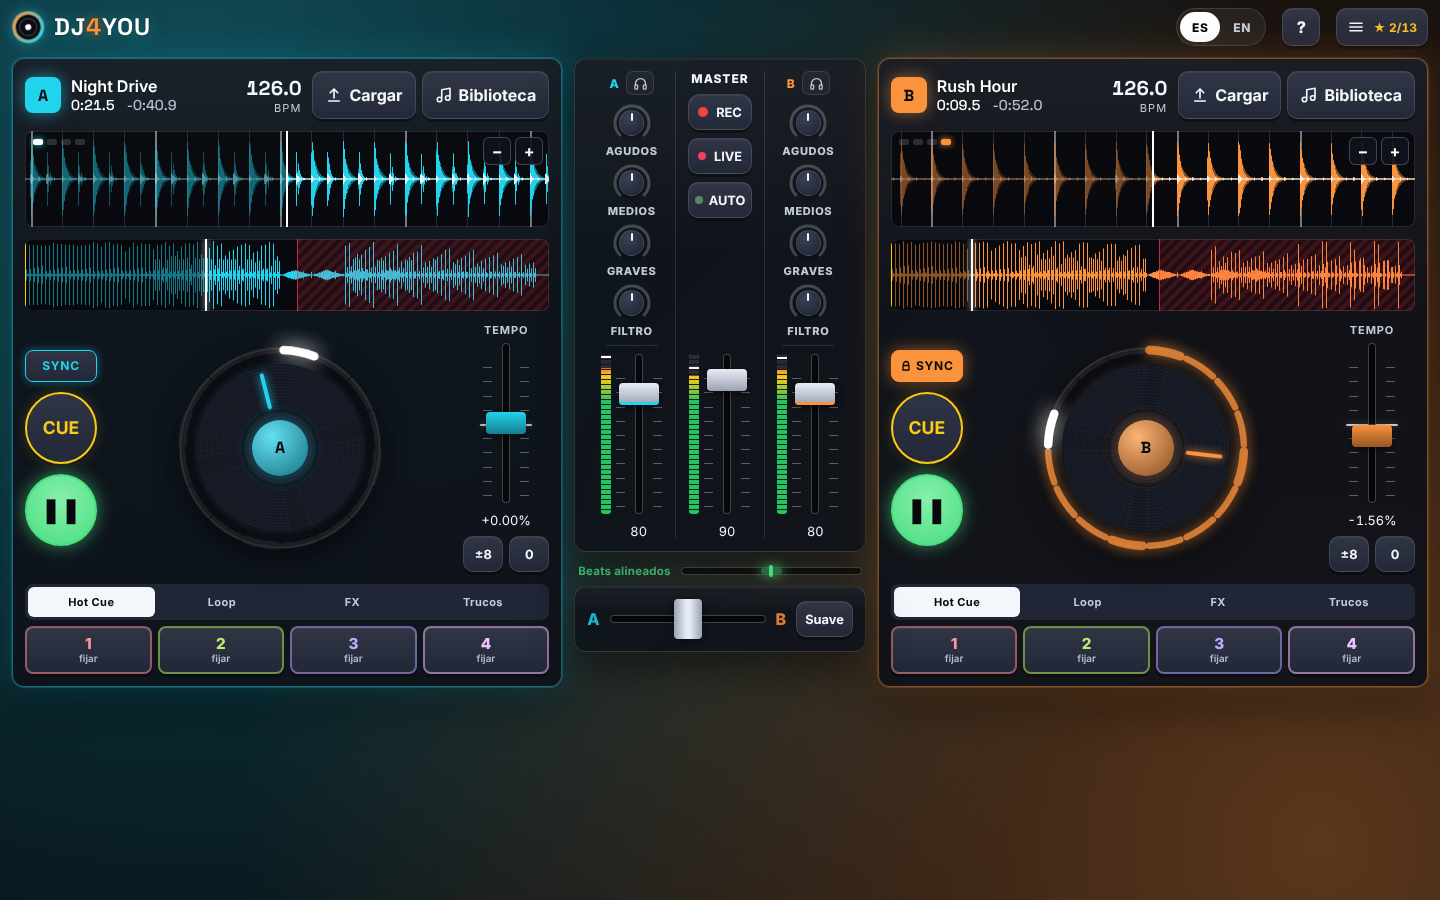
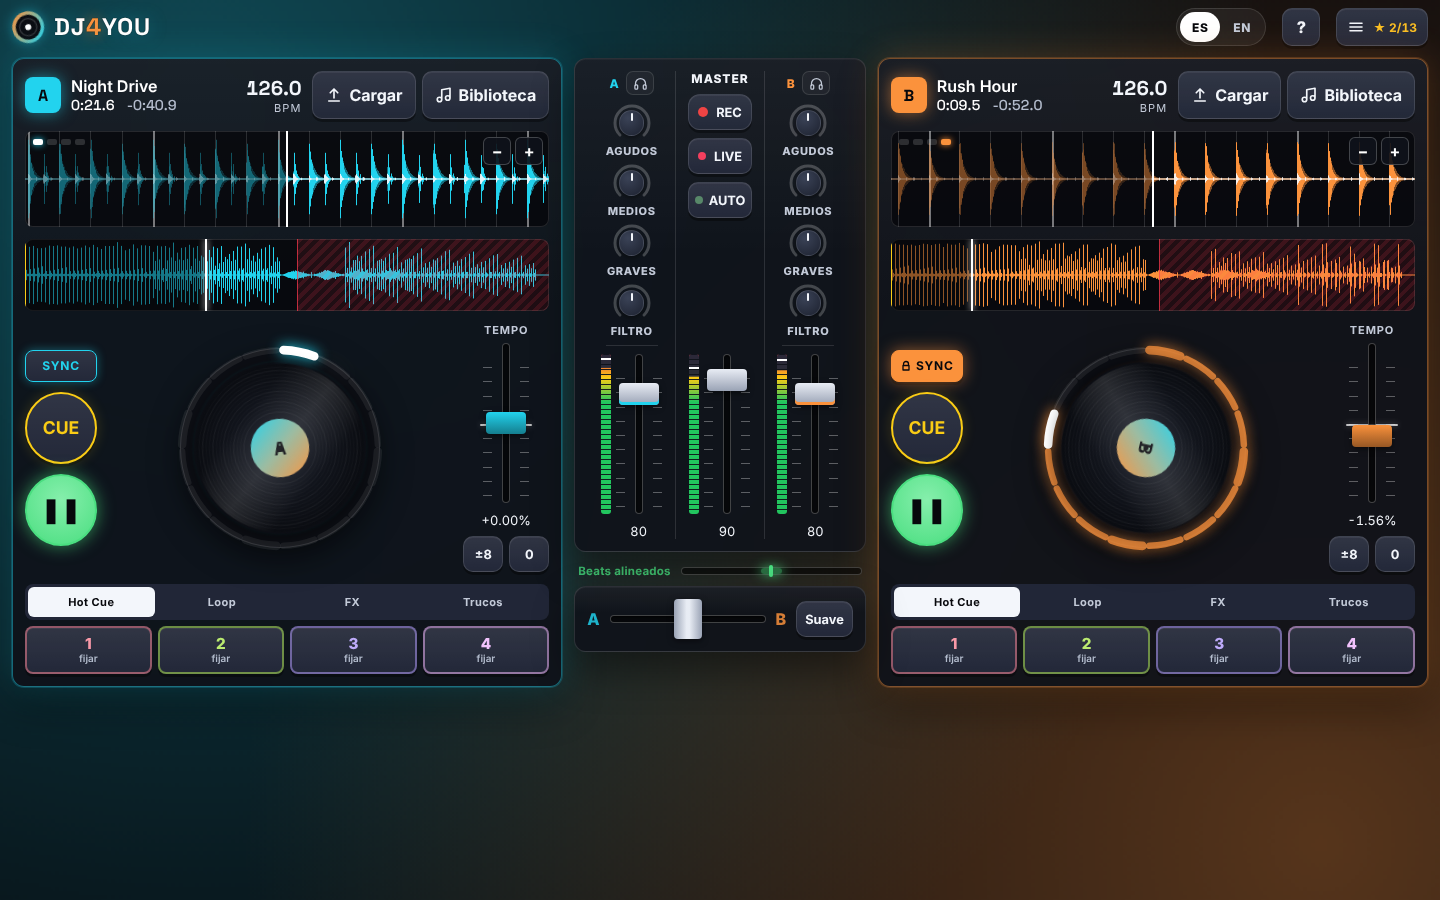
v1.1.1: jog wheels spin the welcome-screen record
The deck platters now use the same vinyl as the welcome turntable
(grooves, cyan-orange label, sheen), shared as one Vinyl component,
with the deck letter on the label.

Claude-Session: https://claude.ai/code/session_01KRvwgpierg44dscD6Diqej

diff --git a/src/components/Welcome.tsx b/src/components/Welcome.tsx
@@ -1,3 +1,4 @@
+import { Vinyl } from './Vinyl'
 import { useEffect, useRef } from 'react'
 import { engine } from '../audio/engine'
 import { coach } from '../game'
@@ -119,33 +120,7 @@ function Turntable() {
     <div className="tt" aria-hidden>
       <div className="tt-plinth">
         <div className="tt-platter">
-          <svg className="tt-record" viewBox="0 0 200 200">
-            <defs>
-              <radialGradient id="tt-vinyl" cx="50%" cy="50%" r="50%">
-                <stop offset="0" stopColor="#1b1f2a" />
-                <stop offset="1" stopColor="#0a0c11" />
-              </radialGradient>
-              <linearGradient id="tt-label" x1="0" y1="0" x2="1" y2="1">
-                <stop offset="0" stopColor="#22d3ee" />
-                <stop offset="1" stopColor="#fb923c" />
-              </linearGradient>
-              <linearGradient id="tt-sheen" x1="0" y1="0" x2="1" y2="1">
-                <stop offset="0.3" stopColor="#fff" stopOpacity="0" />
-                <stop offset="0.5" stopColor="#fff" stopOpacity="0.12" />
-                <stop offset="0.7" stopColor="#fff" stopOpacity="0" />
-              </linearGradient>
-            </defs>
-            <circle cx="100" cy="100" r="98" fill="url(#tt-vinyl)" />
-            {Array.from({ length: 14 }, (_, i) => (
-              <circle key={i} cx="100" cy="100" r={42 + i * 4} fill="none" stroke="#ffffff" strokeOpacity={i % 3 === 0 ? 0.07 : 0.035} />
-            ))}
-            <circle cx="100" cy="100" r="34" fill="url(#tt-label)" />
-            <text x="100" y="108" textAnchor="middle" fontSize="22" fontWeight="800" fill="#07080c" fontFamily="Space Grotesk, Inter, sans-serif">
-              4
-            </text>
-            <circle cx="100" cy="100" r="3" fill="#07080c" />
-            <circle cx="100" cy="100" r="98" fill="url(#tt-sheen)" />
-          </svg>
+          <Vinyl id="tt" label="4" className="tt-record" />
         </div>
         <div className="tt-arm">
           <span className="tt-arm-base" />

diff --git a/src/components/Vinyl.tsx b/src/components/Vinyl.tsx
@@ -1,0 +1,36 @@
+/**
+ * The DJ4YOU record: vinyl grooves, the cyan–orange label and a sheen.
+ * Used on the welcome turntable and on the decks' jog wheels, so both spin
+ * the same disc. `id` keeps the SVG gradients unique on the page.
+ */
+export function Vinyl({ id, label, className }: { id: string; label: string; className?: string }) {
+  return (
+    <svg className={className} viewBox="0 0 200 200" aria-hidden>
+      <defs>
+        <radialGradient id={`${id}-vinyl`} cx="50%" cy="50%" r="50%">
+          <stop offset="0" stopColor="#1b1f2a" />
+          <stop offset="1" stopColor="#0a0c11" />
+        </radialGradient>
+        <linearGradient id={`${id}-label`} x1="0" y1="0" x2="1" y2="1">
+          <stop offset="0" stopColor="#22d3ee" />
+          <stop offset="1" stopColor="#fb923c" />
+        </linearGradient>
+        <linearGradient id={`${id}-sheen`} x1="0" y1="0" x2="1" y2="1">
+          <stop offset="0.3" stopColor="#fff" stopOpacity="0" />
+          <stop offset="0.5" stopColor="#fff" stopOpacity="0.12" />
+          <stop offset="0.7" stopColor="#fff" stopOpacity="0" />
+        </linearGradient>
+      </defs>
+      <circle cx="100" cy="100" r="98" fill={`url(#${id}-vinyl)`} />
+      {Array.from({ length: 14 }, (_, i) => (
+        <circle key={i} cx="100" cy="100" r={42 + i * 4} fill="none" stroke="#ffffff" strokeOpacity={i % 3 === 0 ? 0.07 : 0.035} />
+      ))}
+      <circle cx="100" cy="100" r="34" fill={`url(#${id}-label)`} />
+      <text x="100" y="108" textAnchor="middle" fontSize="22" fontWeight="800" fill="#07080c" fontFamily="Space Grotesk, Inter, sans-serif">
+        {label}
+      </text>
+      <circle cx="100" cy="100" r="3" fill="#07080c" />
+      <circle cx="100" cy="100" r="98" fill={`url(#${id}-sheen)`} />
+    </svg>
+  )
+}

diff --git a/src/components/JogWheel.tsx b/src/components/JogWheel.tsx
@@ -2,6 +2,7 @@ import { useT } from '../i18n'
 import { useRef } from 'react'
 import type { Deck } from '../audio/deck'
 import { useAnimationFrame } from '../hooks/useEngine'
+import { Vinyl } from './Vinyl'
 
 /** A virtual 33⅓ rpm platter: one rotation = 1.8 s of track time. */
 const SECONDS_PER_TURN = 1.8
@@ -128,9 +129,8 @@ export function JogWheel({ deck, disabled }: { deck: Deck; disabled: boolean }) 
         </g>
       </svg>
       <div ref={platterRef} className="jog-platter">
-        <div className="jog-marker" />
+        <Vinyl id={`jog-${deck.id}`} label={deck.id} className="jog-record" />
       </div>
-      <div className="jog-cap">{deck.id}</div>
     </div>
   )
 }

diff --git a/src/skin.css b/src/skin.css
@@ -4220,3 +4220,30 @@ button.deck-bpm:active:not(:disabled) {
 .player {
   position: relative;
 }
+
+/* ---------- jog wheel: the same record as the welcome turntable ---------- */
+.jog-platter {
+  inset: 7%;
+  display: grid;
+  place-items: center;
+  background: none;
+  box-shadow: 0 4px 14px rgb(0 0 0 / 0.5);
+}
+.jog-record {
+  width: 100%;
+  height: 100%;
+  display: block;
+}
+.jog.is-beat .jog-platter {
+  animation: jog-thump-record 0.18s ease-out;
+}
+@keyframes jog-thump-record {
+  from {
+    box-shadow:
+      0 4px 14px rgb(0 0 0 / 0.5),
+      0 0 24px color-mix(in srgb, var(--accent) 60%, transparent);
+  }
+}
+.jog.is-disabled .jog-record {
+  opacity: 0.55;
+}

diff --git a/CHANGELOG.md b/CHANGELOG.md
@@ -2,6 +2,11 @@
 
 Todas las versiones de DJ4YOU. El formato sigue [Keep a Changelog](https://keepachangelog.com/es-ES/1.1.0/) y el número de versión, [versionado semántico](https://semver.org/lang/es/).
 
+## [1.1.1] - 2026-11-20
+
+### Mejoras
+- Los platos de los decks A y B son el mismo disco de vinilo que gira en la pantalla de bienvenida (surcos, etiqueta y brillo), con la letra del deck en la etiqueta.
+
 ## [1.1.0] - 2026-11-20
 
 ### Nuevo
@@ -32,5 +37,6 @@ Primera versión estable.
 - Grabación de la mezcla con resumen de sesión, y transmisión en vivo hasta 20 oyentes (WebRTC).
 - Tutorial, consejos, logros y página de ayuda; español e inglés; PWA instalable que funciona sin conexión.
 
+[1.1.1]: https://github.com/fokerone/dj4you/releases/tag/v1.1.1
 [1.1.0]: https://github.com/fokerone/dj4you/releases/tag/v1.1.0
 [1.0.0]: https://github.com/fokerone/dj4you/releases/tag/v1.0.0

diff --git a/README.md b/README.md
@@ -6,7 +6,7 @@
 
 🎛 Orquestado por **Foker** ([fokerone](https://github.com/fokerone)) · 🤖 Desarrollado por **[Claude Code](https://claude.com/claude-code)**
 
-**v1.1.0** · [**▶ Abrir DJ4YOU**](https://fokerone.github.io/dj4you/) · [Ayuda dentro de la app](https://fokerone.github.io/dj4you/#ayuda)
+**v1.1.1** · [**▶ Abrir DJ4YOU**](https://fokerone.github.io/dj4you/) · [Ayuda dentro de la app](https://fokerone.github.io/dj4you/#ayuda)
 
 <img src="docs/desktop.png" alt="DJ4YOU en el escritorio: dos decks sincronizados y el mezclador" width="860">
 
